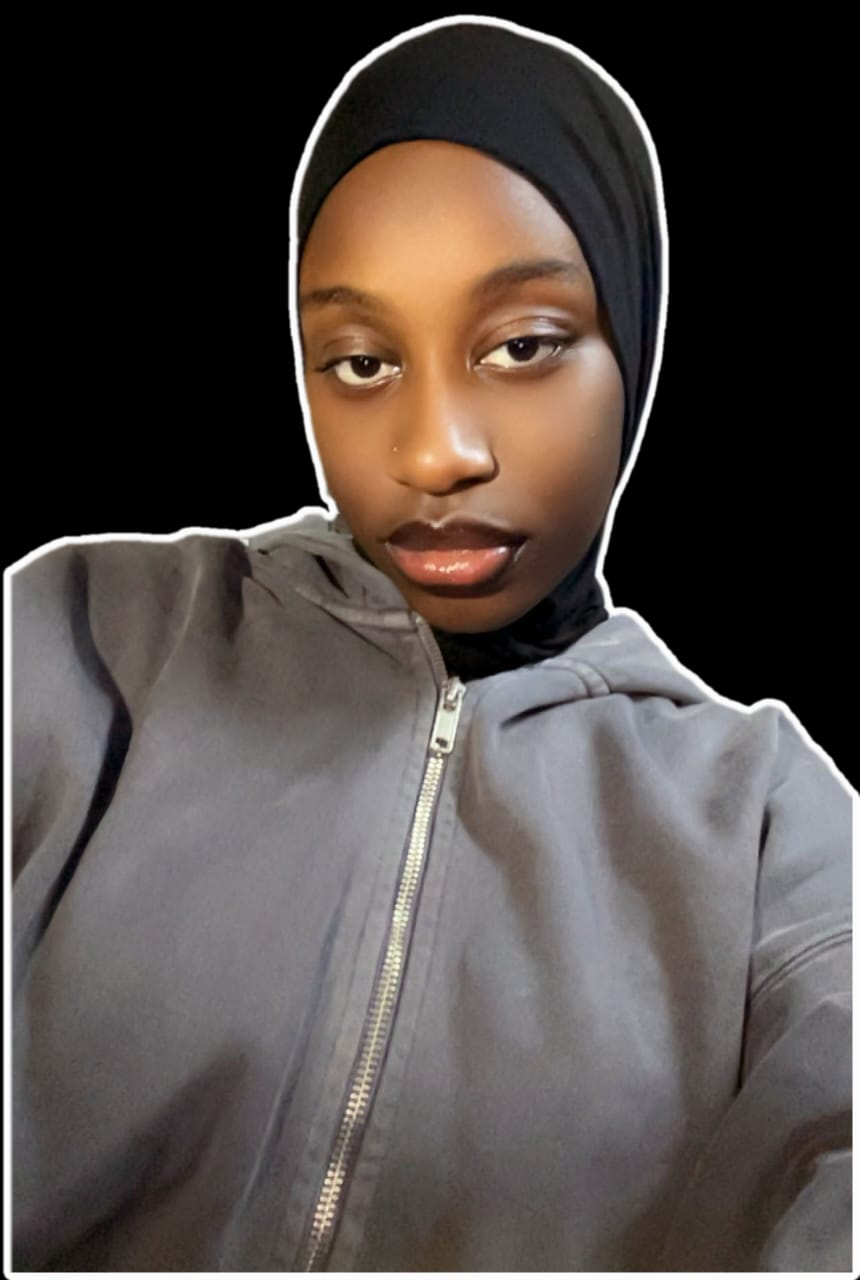
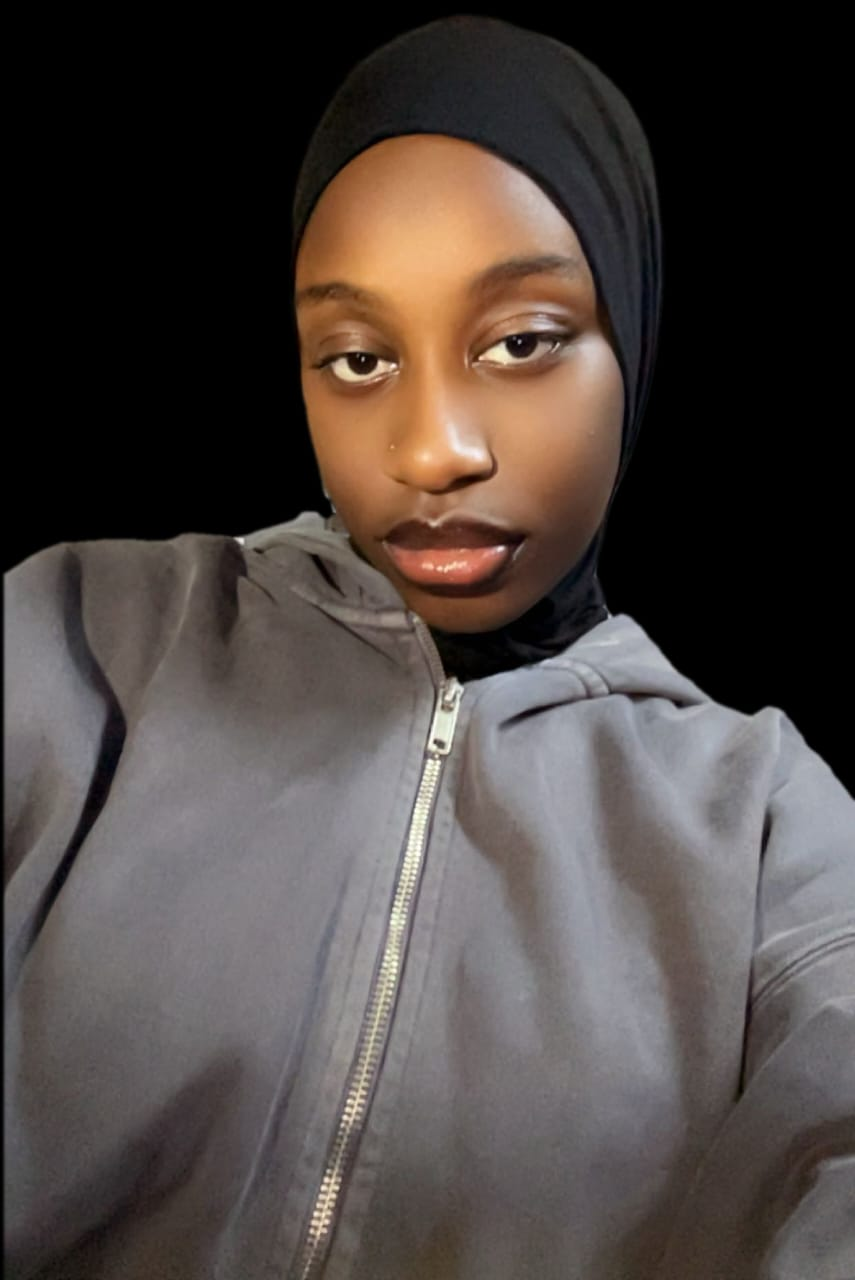
Quelques rectifications au niveau du Navbar et de Home

diff --git a/src/styles/Navbar.css b/src/styles/Navbar.css
@@ -2,8 +2,13 @@
   display: flex;
   align-items: center;
   box-sizing: border-box;
+  justify-content: space-between;
   font-family: Verdana, Geneva, Tahoma, sans-serif;
   position: fixed;
+  top: 0;
+  padding: 1% 4%;
+  width: 100%;
+  background-color: black;
 }
 
 .logo{
@@ -11,12 +16,7 @@
   font-weight: bold;
   font-size: 50px;
   color: #5C3E94;
-  margin-left: 20px;
-}
-
-#links{
-  position: fixed;
-  right: 50px;
+  margin: 0;
 }
 
 .link {

diff --git a/src/styles/About.css b/src/styles/About.css
@@ -26,14 +26,15 @@
 .paragraph {
   color: whitesmoke;
   font-family: Verdana, Geneva, Tahoma, sans-serif;
-  margin-left: 20px;
+  margin-left: 50px;
 }
 
 .maphoto {
-  width: 350px;
+  width: auto;
   height: 550px;
   border-radius: 30%;
-  margin-left: 300px;
+  position: absolute;
+  right: 50px;
   object-fit: cover;
   box-shadow:
     0 0 20px #5C3E94,

diff --git a/src/components/About.js b/src/components/About.js
@@ -17,9 +17,8 @@ function About() {
         </div>
       </div>
       
-      <div className="photo-container">
         <img className="maphoto" src={me} alt="maphoto" />
-      </div>
+    
     </div>
   )
 }

diff --git a/src/components/App.js b/src/components/App.js
@@ -9,7 +9,6 @@ function App() {
       <Navbar />
       <Home />
       <About />
-      
     </div>
   );
 }
